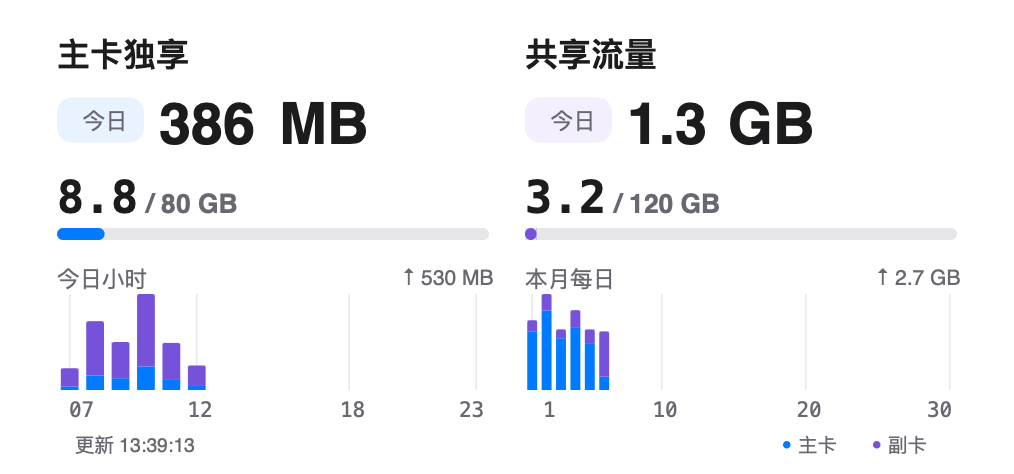
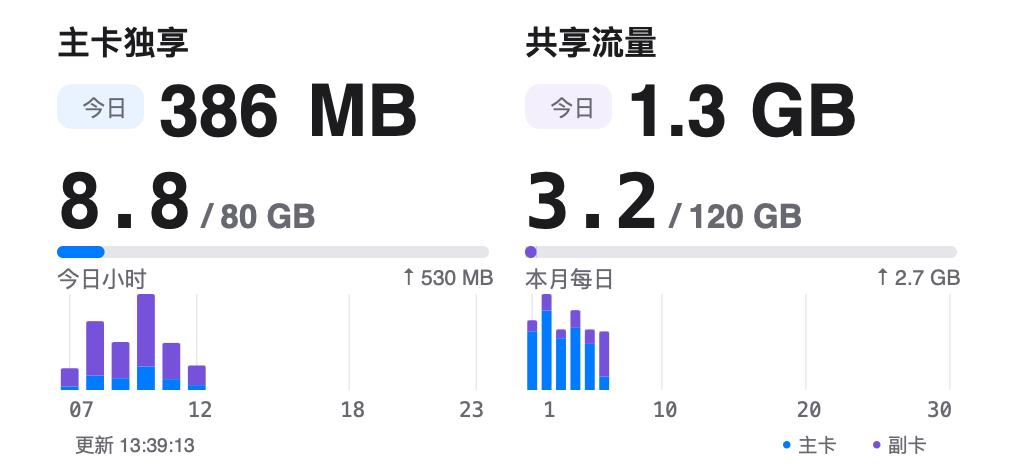
Separate Unicom layout typography and refine today capsules

diff --git a/scriptable/UnicomFlow.js b/scriptable/UnicomFlow.js
@@ -40,12 +40,14 @@ const UF = {
   folder: 'UnicomFlow',
   usageFont: 'SF Mono Medium', totalFont: '系统 Medium', todayFont: '系统 Medium',
   usageFontSize: 25, totalFontSize: 11, todayFontSize: 12, titleFontSize: null,
-  sectionBackground: true, mediumLayout: '今日横条',
+  sectionBackground: true, mediumLayout: '今日横条', mediumTypography: null,
   bg: '1C1C1E', text: 'F5F5F7', muted: 'A4A4AA', track: '454548', panelBg: '28282C', todayBg: '37373D',
   blue: '0A94FF', purple: '8A73FF', warning: 'FFD166', gridMajor: '38383C', gridMinor: '27272B',
 };
 const UF_DEFAULTS = { ...UF };
 const UF_MEDIUM_LAYOUTS = ['今日横条', '今日在上', '今日右上角'];
+const UF_MEDIUM_FONT_PREFIXES = { '今日横条': 'mediumBar', '今日在上': 'mediumTop', '今日右上角': 'mediumCorner' };
+const UF_TYPOGRAPHY_KEYS = ['usageFont', 'totalFont', 'todayFont', 'usageFontSize', 'totalFontSize', 'todayFontSize', 'titleFontSize'];
 
 function normalizedMediumLayout(value) {
   if (value === '今日集中方块') return '今日在上';
@@ -67,16 +69,43 @@ function normalizedNumberFont(value, fallback = 'SF Mono Regular') {
   return value === 'Menlo' ? 'Menlo Regular' : fallback;
 }
 
-function normalizedFontSize(value, kind) {
+function normalizedFontSize(value, kind, medium = false, fallback = UF_DEFAULTS[kind + 'FontSize']) {
   const n = Number(value);
-  const [min, max] = kind === 'usage' ? [12, 28] : [6, 14];
+  const [min, max] = kind === 'usage' ? [12, 28] : kind === 'today' && medium ? [6, 28] : [6, 14];
   return String(value == null ? '' : value).trim() && Number.isFinite(n) && n >= min && n <= max
-    ? n : UF_DEFAULTS[kind + 'FontSize'];
+    ? n : fallback;
 }
 
 function normalizedTitleSize(value) {
   const n = Number(value);
   return String(value == null ? '' : value).trim() && Number.isFinite(n) && n >= 8 && n <= 12 ? n : null;
+}
+
+function typographyKey(layout, key) {
+  return layout ? UF_MEDIUM_FONT_PREFIXES[layout] + key[0].toUpperCase() + key.slice(1) : key;
+}
+
+function mediumTypographyDefaults(settings, layout) {
+  const values = {};
+  for (const kind of ['usage', 'total', 'today']) {
+    values[kind + 'Font'] = normalizedNumberFont(settings[kind + 'Font'], UF_DEFAULTS[kind + 'Font']);
+    values[kind + 'FontSize'] = normalizedFontSize(settings[kind + 'FontSize'], kind);
+  }
+  // 迁移一次旧版今日视觉大小；保存的是实际字号，绘制时不再使用布局倍数。
+  values.todayFontSize = Math.max(6, Math.min(28,
+    Math.round(values.todayFontSize * (layout === '今日在上' ? 2 : layout === '今日右上角' ? 0.8 : 1) * 100) / 100));
+  values.titleFontSize = normalizedTitleSize(settings.titleFontSize);
+  return values;
+}
+
+function mediumTypography(settings, layout) {
+  const defaults = mediumTypographyDefaults(UF_DEFAULTS, layout), values = {};
+  for (const kind of ['usage', 'total', 'today']) {
+    values[kind + 'Font'] = normalizedNumberFont(settings[typographyKey(layout, kind + 'Font')], defaults[kind + 'Font']);
+    values[kind + 'FontSize'] = normalizedFontSize(settings[typographyKey(layout, kind + 'FontSize')], kind, true, defaults[kind + 'FontSize']);
+  }
+  values.titleFontSize = normalizedTitleSize(settings[typographyKey(layout, 'titleFontSize')]);
+  return values;
 }
 
 const UF_THEMES = {
@@ -1242,20 +1271,20 @@ function combinedTint(accent, strength = 0.09) {
   }).join('');
 }
 
-function combinedTodayText(value, width, scale = 1, increment = false, maxSize = Infinity) {
+function combinedTodayText(value, width, increment = false, maxSize = Infinity) {
   const formatted = formatMB(value, 'daily'), match = formatted.match(/^(.*?)(MB|GB)$/);
   const runs = match ? [match[1], match[2]] : [formatted];
   if (increment && value > 0 && Number.isFinite(value) && !formatted.startsWith('<')) runs[0] = '+' + runs[0];
   // 数字、单位独立绘制并预留真实字宽，避免真机换行后裁掉单位。
   const units = runs.map((run, index) => numberWidth(run, 1, 'today') * (index ? 1.2 : 1.05));
-  const size = Math.min(UF.todayFontSize * scale, maxSize, (width - 2 * runs.length - 2 * (runs.length - 1)) / Math.max(1, units.reduce((a, b) => a + b, 0)));
+  const size = Math.min(UF.todayFontSize, maxSize, (width - 2 * runs.length - 2 * (runs.length - 1)) / Math.max(1, units.reduce((a, b) => a + b, 0)));
   const widths = units.map(unit => unit * size + 2);
   return { runs, size, widths, width: widths.reduce((a, b) => a + b, 0) + 2 * (runs.length - 1) };
 }
 
 function drawCombinedToday(ctx, value, x, y, width, height, label = '', options = {}) {
   const labelWidth = label ? 14 : 0, gap = label ? 3 : 0;
-  const spec = combinedTodayText(value, width - labelWidth - gap, options.scale || 1, options.increment, height / 1.2);
+  const spec = combinedTodayText(value, width - labelWidth - gap, options.increment, height / 1.2);
   let start = options.left ? x : x + (width - spec.width - labelWidth - gap) / 2;
   if (label) {
     text(ctx, label, start, y + (height - 8.4) / 2, labelWidth, 8.4, 7, UF.muted);
@@ -1271,13 +1300,13 @@ function drawCombinedMonth(ctx, metric, x, y, width, options = {}) {
   const used = metric ? metric.used / 1024 : null;
   const primary = used == null ? '—' : used > 0 && used < 0.1 ? '<0.1' : used.toFixed(1);
   const quota = metric ? metric.total == null ? ' GB / 不限量' : ` / ${formatGB(metric.total, true)} GB` : '';
-  const quotaSize = Math.min(UF.totalFontSize * (options.totalScale || 1), width / Math.max(1, numberWidth(quota, 1, 'total')));
-  const primarySize = Math.min(UF.usageFontSize * (options.scale || 1), (width - Math.max(options.reserve || 0, numberWidth(quota, quotaSize, 'total') + 2))
+  const quotaSize = Math.min(UF.totalFontSize, width / Math.max(1, numberWidth(quota, 1, 'total')));
+  const primarySize = Math.min(UF.usageFontSize, options.maxSize || Infinity, (width - Math.max(options.reserve || 0, numberWidth(quota, quotaSize, 'total') + 2))
     / Math.max(1, numberWidth(primary, 1, 'usage')));
   const valueWidth = numberWidth(primary, primarySize, 'usage');
-  text(ctx, primary, x, y, valueWidth + 2, 34, primarySize, UF.text, 'number');
+  text(ctx, primary, x, y, valueWidth + 2, Math.max(18, primarySize * 1.2), primarySize, UF.text, 'number');
   if (quota) text(ctx, quota, x + valueWidth + 2, y + primarySize - quotaSize,
-    width - valueWidth - 2, 18, quotaSize, UF.muted, 'total');
+    width - valueWidth - 2, quotaSize * 1.2, quotaSize, UF.muted, 'total');
   return { rightX: x + valueWidth + 2, rightWidth: width - valueWidth - 2 };
 }
 
@@ -1307,17 +1336,21 @@ function drawCombinedDetail(ctx, metric, x, y, width) {
 
 function drawCombinedMetric(ctx, metric, label, daily, x, width, accent) {
   const title = ['通用', '定向'].includes(label) ? '数据流量·' + label : label;
-  text(ctx, title, x, 11, width, 14, Math.min(UF.titleFontSize || 11, width / title.length), UF.text, false, false, true);
+  text(ctx, title, x, UF.mediumLayout === '今日在上' ? 7 : 11, width, 14, Math.min(UF.titleFontSize || 11, width / title.length), UF.text, false, false, true);
   if (UF.mediumLayout === '今日在上') {
-    if (UF.sectionBackground) roundedRect(ctx, x, 32.5, 29, 15, 5, combinedTint(accent));
-    text(ctx, '今日', x, 35.5, 29, 9, 7.5, UF.muted, false, true);
-    drawCombinedToday(ctx, daily, x + 34, 27, width - 34, 26, '', { scale: 1.6, left: true });
-    drawCombinedMonth(ctx, metric, x, 56, width, { scale: 0.6, totalScale: 0.8 });
-    drawCombinedProgress(ctx, metric, x, 76, width);
-    drawCombinedDetail(ctx, metric, x, 80, width);
+    if (UF.sectionBackground) roundedRect(ctx, x, 28, 29, 15, 5, combinedTint(accent));
+    text(ctx, '今日', x, 31, 29, 9, 7.5, UF.muted, false, true);
+    drawCombinedToday(ctx, daily, x + 34, 21, width - 34, 29, '', { left: true });
+    drawCombinedMonth(ctx, metric, x, 51, width, { maxSize: 25 });
+    drawCombinedProgress(ctx, metric, x, 82, width);
+    drawCombinedDetail(ctx, metric, x, 86, width);
   } else if (UF.mediumLayout === '今日右上角') {
     const month = drawCombinedMonth(ctx, metric, x, 38, width, { reserve: 62 });
-    drawCombinedToday(ctx, daily, month.rightX, 26, month.rightWidth, 14, '', { scale: 0.8, left: true, increment: true, color: accent });
+    const todayHeight = Math.max(14, Math.min(20, UF.todayFontSize * 1.2));
+    const today = combinedTodayText(daily, month.rightWidth - 8, true, todayHeight / 1.2);
+    const capsuleWidth = Math.min(month.rightWidth, today.width + 8);
+    if (UF.sectionBackground) roundedRect(ctx, month.rightX, 28, capsuleWidth, todayHeight + 4, (todayHeight + 4) / 2, combinedTint(accent));
+    drawCombinedToday(ctx, daily, month.rightX + 4, 30, capsuleWidth - 8, todayHeight, '', { left: true, increment: true });
     drawCombinedProgress(ctx, metric, x, 76, width);
     drawCombinedDetail(ctx, metric, x, 80, width);
   } else {
@@ -1368,6 +1401,15 @@ function drawCompactChart(ctx, slots, title, x, y, width, hourly = false) {
 }
 
 function renderImage(result, medium, width, height, mode = 'month') {
+  const typography = medium && widgetMode(mode) === 'month' && UF.mediumTypography && UF.mediumTypography[UF.mediumLayout];
+  if (!typography) return drawWidgetImage(result, medium, width, height, mode);
+  const previous = Object.fromEntries(UF_TYPOGRAPHY_KEYS.map(key => [key, UF[key]]));
+  Object.assign(UF, typography);
+  try { return drawWidgetImage(result, medium, width, height, mode); }
+  finally { Object.assign(UF, previous); }
+}
+
+function drawWidgetImage(result, medium, width, height, mode = 'month') {
   // 统一为 158 点设计高度，再随组件尺寸缩放，避免小屏沿用固定坐标而挤入圆角。
   width = Math.round(width * 158 / height);
   height = 158;
@@ -1392,7 +1434,7 @@ function renderImage(result, medium, width, height, mode = 'month') {
     drawCombinedMetric(ctx, metrics.left, metrics.leftLabel, daily[0], leftX, col, UF.blue);
     drawCombinedMetric(ctx, metrics.right, metrics.rightLabel, daily[1], rightX, col, UF.purple);
     // 下半双图的坐标与底色开关无关。
-    const chartY = 98;
+    const chartY = UF.mediumLayout === '今日在上' && chartLift === 0 ? 106 : 98;
     drawCompactChart(ctx, widgetHourSlots(result.history, now), '今日小时', leftX, chartY, col, true);
     const month = monthlyReport(result.history, now);
     const days = month.days.map((d, index) => ({ ...d, samples: d.intervals,
@@ -1586,6 +1628,18 @@ function createWidgetClass(DmYY) {
         if (this.settings.todayFont === '系统 Medium' && String(this.settings.todayFontSize) === '9.5') this.settings.todayFontSize = '12';
         this.settings.todayTypographyDefaultsApplied = true; changed = true;
       }
+      if (!this.settings.mediumTypographyInitialized) {
+        for (const layout of UF_MEDIUM_LAYOUTS) {
+          const defaults = mediumTypographyDefaults(this.settings, layout);
+          for (const key of UF_TYPOGRAPHY_KEYS) {
+            const savedKey = typographyKey(layout, key);
+            if (!Object.prototype.hasOwnProperty.call(this.settings, savedKey)) {
+              this.settings[savedKey] = defaults[key] == null ? '' : String(defaults[key]);
+            }
+          }
+        }
+        this.settings.mediumTypographyInitialized = true; changed = true;
+      }
       if (changed) this.saveSettings(false);
       this.name = '联通流量';
       this.en = 'UnicomFlow';
@@ -1595,6 +1649,7 @@ function createWidgetClass(DmYY) {
       applyTheme(this.settings);
       UF.sectionBackground = ![false, 'false'].includes(this.settings.sectionBackground);
       UF.mediumLayout = normalizedMediumLayout(this.settings.mediumLayout);
+      UF.mediumTypography = Object.fromEntries(UF_MEDIUM_LAYOUTS.map(layout => [layout, mediumTypography(this.settings, layout)]));
       if (!this.settings.refreshAfterDate) this.settings.refreshAfterDate = String(UF_DEFAULTS.refreshMinutes);
       // 原间隔同时控制请求和组件，升级时保留用户已设置的查询频率。
       if (this.settings.dataRequestMinutes == null) this.settings.dataRequestMinutes = this.settings.refreshAfterDate;
@@ -1617,6 +1672,7 @@ function createWidgetClass(DmYY) {
       applyTheme(this.settings);
       UF.sectionBackground = ![false, 'false'].includes(this.settings.sectionBackground);
       UF.mediumLayout = normalizedMediumLayout(this.settings.mediumLayout);
+      UF.mediumTypography = Object.fromEntries(UF_MEDIUM_LAYOUTS.map(layout => [layout, mediumTypography(this.settings, layout)]));
       UF.titleFontSize = normalizedTitleSize(this.settings.titleFontSize);
       for (const kind of ['usage', 'total', 'today']) {
         UF[kind + 'Font'] = normalizedNumberFont(this.settings[kind + 'Font'], UF_DEFAULTS[kind + 'Font']);
@@ -1892,20 +1948,31 @@ function createWidgetClass(DmYY) {
       ] }]);
     }
 
-    async fontSettings() {
-      const groups = [['usage', '用量文字', 12, 28], ['total', '总量与百分比', 6, 14], ['today', '今日用量（综合中号）', 6, 14]];
+    async fontSettings(layout) {
+      if (layout === undefined) {
+        const scopes = [[null, '小号与独立今日'], ...UF_MEDIUM_LAYOUTS.map(name => [name, name])];
+        return this.renderAppView([{ title: '分别设置字体与字号', menu: scopes.map(([scope, title], index) => ({
+          name: 'fontScope' + index, title, type: 'input', desc: scope ? '仅影响此中号布局' : '小号及独立今日视图',
+          icon: { name: 'textformat', color: '#007AFF' }, onClick: () => this.fontSettings(scope),
+        })) }]);
+      }
+      const values = layout ? mediumTypography(this.settings, layout) : this.settings;
+      const scopeLabel = layout ? `仅“${layout}”` : '小号与独立今日';
+      const groups = [['usage', layout ? '本月用量' : '用量文字', 12, 28], ['total', layout ? '套餐总量' : '总量与百分比', 6, 14]];
+      if (layout) groups.push(['today', '今日用量', 6, 28]);
       const sections = groups.map(([kind, title, min, max]) => ({ title, menu: [
-        { name: kind + 'Font', val: kind + 'Font', title: '字体', type: 'select',
-          options: Object.keys(UF_NUMBER_FONTS), defaultValue: this.settings[kind + 'Font'], icon: { name: 'textformat', color: '#007AFF' } },
-        { name: kind + 'FontSize', val: kind + 'FontSize', title: '文字大小', type: 'input',
-          defaultValue: String(normalizedFontSize(this.settings[kind + 'FontSize'], kind)),
-          desc: `${kind === 'today' ? '综合中号三种布局的今日用量' : '小号、中号共用'}；输入 ${min}—${max}，支持小数；内容过宽时自动缩小`,
+        { name: typographyKey(layout, kind + 'Font'), val: typographyKey(layout, kind + 'Font'), title: '字体', type: 'select',
+          options: Object.keys(UF_NUMBER_FONTS), defaultValue: values[kind + 'Font'], icon: { name: 'textformat', color: '#007AFF' } },
+        { name: typographyKey(layout, kind + 'FontSize'), val: typographyKey(layout, kind + 'FontSize'), title: '文字大小', type: 'input',
+          defaultValue: String(normalizedFontSize(values[kind + 'FontSize'], kind, !!layout)),
+          desc: `${scopeLabel}；实际字号 ${min}—${max}，支持小数；空间不足时自动缩小`,
           icon: { name: 'textformat.size', color: '#007AFF' },
           onClick: async (_, __, view) => {
-            const key = kind + 'FontSize';
+            const key = typographyKey(layout, kind + 'FontSize');
             const a = new Alert(); a.title = title + '大小';
-            a.message = `${kind === 'today' ? '综合中号三种布局的今日用量。' : '小号、中号共用。'}请输入 ${min}—${max} 之间的字号，支持小数；内容过宽时自动缩小。`;
-            a.addTextField(String(UF_DEFAULTS[key]), String(normalizedFontSize(this.settings[key], kind)));
+            a.message = `${scopeLabel}。输入 ${min}—${max} 之间的实际字号，支持小数，不按布局倍数缩放；空间不足时自动缩小。`;
+            const fallback = layout ? mediumTypographyDefaults(UF_DEFAULTS, layout)[kind + 'FontSize'] : UF_DEFAULTS[kind + 'FontSize'];
+            a.addTextField(String(fallback), String(normalizedFontSize(this.settings[key], kind, !!layout, fallback)));
             a.addAction('保存'); a.addCancelAction('取消');
             if (await a.presentAlert() < 0) return;
             const value = a.textFieldValue(0).trim(), size = Number(value);
@@ -1914,18 +1981,19 @@ function createWidgetClass(DmYY) {
             if (view && this.insertTextByElementId) this.insertTextByElementId(view, key, String(size));
           } },
       ] }));
-      sections.push({ title: '标题文字', menu: [{ name: 'titleFontSize', val: 'titleFontSize', title: '文字大小', type: 'input',
-        defaultValue: normalizedTitleSize(this.settings.titleFontSize) == null ? '随尺寸' : String(normalizedTitleSize(this.settings.titleFontSize)),
-        desc: '小号、中号共用；8—12，支持小数；留空恢复小号10、中号11', icon: { name: 'textformat.size', color: '#007AFF' },
+      const titleKey = typographyKey(layout, 'titleFontSize');
+      sections.push({ title: '标题文字', menu: [{ name: titleKey, val: titleKey, title: '文字大小', type: 'input',
+        defaultValue: normalizedTitleSize(this.settings[titleKey]) == null ? '随尺寸' : String(normalizedTitleSize(this.settings[titleKey])),
+        desc: `${scopeLabel}；8—12，支持小数；留空恢复默认`, icon: { name: 'textformat.size', color: '#007AFF' },
         onClick: async (_, __, view) => {
-          const a = new Alert(); a.title = '标题文字大小'; a.message = '输入 8—12 之间的字号，小号、中号共用；留空恢复默认（小号10、中号11）。长标题自动缩小以适应宽度。';
-          a.addTextField('留空恢复默认', normalizedTitleSize(this.settings.titleFontSize) == null ? '' : String(normalizedTitleSize(this.settings.titleFontSize)));
+          const a = new Alert(); a.title = '标题文字大小'; a.message = `${scopeLabel}。输入 8—12 之间的字号；留空恢复默认（小号10、中号11）。长标题自动缩小以适应宽度。`;
+          a.addTextField('留空恢复默认', normalizedTitleSize(this.settings[titleKey]) == null ? '' : String(normalizedTitleSize(this.settings[titleKey])));
           a.addAction('保存'); a.addCancelAction('取消'); if (await a.presentAlert() < 0) return;
           const value = a.textFieldValue(0).trim(), size = normalizedTitleSize(value);
           if (value && size == null) return alertMessage('未保存', '请输入 8—12 之间的数字，或留空恢复默认');
-          if (value) this.settings.titleFontSize = String(size); else delete this.settings.titleFontSize;
+          if (value) this.settings[titleKey] = String(size); else delete this.settings[titleKey];
           this.saveSettings(false);
-          if (view && this.insertTextByElementId) this.insertTextByElementId(view, 'titleFontSize', value ? String(size) : '随尺寸');
+          if (view && this.insertTextByElementId) this.insertTextByElementId(view, titleKey, value ? String(size) : '随尺寸');
         } }] });
       return this.renderAppView(sections);
     }

diff --git a/docs/unicom-flow/README.md b/docs/unicom-flow/README.md
@@ -15,7 +15,7 @@
 
 ## 小组件参数：本月／今日
 
-长按桌面组件 → 编辑小组件 → Parameter：留空或填写 `month` 时，小号显示本月，中号显示本月＋今日综合视图；填写 `today` 切换为原有今日视图。小号、中号均支持，每张组件独立选择，同一份历史和字体设置可以同时用于两种视图。组件不再提供独立刷新按钮；大小号整卡点击均运行当前脚本并打开配置菜单，不主动查询联通。用量统计从菜单进入。
+长按桌面组件 → 编辑小组件 → Parameter：留空或填写 `month` 时，小号显示本月，中号显示本月＋今日综合视图；填写 `today` 切换为原有今日视图。小号、中号均支持，每张组件独立选择，两种视图复用同一份历史，字体按下述入口分别设置。组件不再提供独立刷新按钮；大小号整卡点击均运行当前脚本并打开配置菜单，不主动查询联通。用量统计从菜单进入。
 
 今日视图标题为“共享流量 · 今日”／“主卡独享 · 今日”（未识别共享属性时沿用通用／定向分类），大数字显示该组套餐的今日已记录增量；下方固定使用 GB，格式如 `6.8 / 120 GB`，斜杠两侧和数字与单位间各留固定 2 点间距，不加“本月”文字、不显示百分比。竖条仍表示月套餐已用比例。图表只保留主卡／副卡色点和名称，不重复用量数字；共享池下方不再额外显示逐卡月用量。今日中号继续显示一张完整宽度的小时图，两种模式的底部图例统一为“主卡／副卡”，不显示用量数字。
 
@@ -23,15 +23,15 @@
 
 - **今日横条**：参考第一张图，左右分别为主卡独享与共享流量，上方月已用与总量同排，横向月进度条下方显示对应今日用量；今日横条分别用很浅的蓝色、紫色底色区分套餐。
 - **今日在上**：左右分别为主卡独享与共享流量，标题下方用浅蓝／浅紫小胶囊标注“今日”，标签与今日数值垂直居中；下方月已用与总量同排，不重复“本月”标题，月已用为正文色、总量为灰色，再下方为横向进度条。
-- **今日右上角**：保留大号月已用，右上侧以主／副卡主题色小号显示今日增量，例如 `+100 MB`，不再重复“今日”；总量在增量下方，与月已用基线对齐。今日非零不足1 MB显示 `<1 MB`、真实零显示 `0 MB`、缺记录显示 `—`，这三种情况不添加加号。
+- **今日右上角**：保留大号月已用，右上侧以紧凑的浅蓝／浅紫胶囊显示今日增量，文字使用正文色（白色主题为黑色，深色主题为浅色），例如 `+100 MB`，不再重复“今日”；总量在增量下方，与月已用基线对齐。今日非零不足1 MB显示 `<1 MB`、真实零显示 `0 MB`、缺记录显示 `—`，这三种情况不添加加号。
 
-三种布局月已用均固定GB、保留一位小数（如 `8.8 / 80 GB`），非零不足0.1 GB显示 `<0.1`，零显示 `0.0`，无数据为 `—`；总量规则不变，不显示百分比。月已用、总量和今日共用三组字体设置。今日横条沿用菜单字号；今日在上将今日字号放大至设置的1.6倍、月已用及总量分别按0.6倍和0.8倍绘制；今日右上角的今日增量按0.8倍绘制，月已用与总量沿用菜单字号。各布局继续按可用宽高缩小实际绘制字号，不改保存值。今日数字与MB／GB分开绘制，字体、字重、字号一致，间距2点，并预留真实字宽避免换行；标签、数值各自垂直居中。共享池主卡用量确认为0且成员合计完整时，省略逐卡明细；主卡开始使用共享池时保留本月主／副卡用量说明，成员缺失或合计不符时显示“明细未确认”，保留灰条，不推算。共享月进度条以套餐总量为整条宽度，蓝色主卡、紫色副卡相邻堆叠，不夸大短段；今日不重复显示逐卡用量。
+三种布局月已用均固定GB、保留一位小数（如 `8.8 / 80 GB`），非零不足0.1 GB显示 `<0.1`，零显示 `0.0`，无数据为 `—`；总量规则不变，不显示百分比。三种中号布局各自保存本月用量、套餐总量、今日用量的字体与实际字号，标题字号也分别保存，不再使用布局倍数。未自定义时，本月用量默认SF Mono Medium 25号、总量系统 Medium 11号，与小号本月一致；今日横条、今日在上、今日右上角的今日默认字号分别为12、24、9.6号。初次升级复制原字体与字号，将旧今日视觉大小转换为各版实际字号；后续修改互不影响。仅在可用宽高不足时缩小实际绘制字号，不改保存值。今日数字与MB／GB分开绘制，字体、字重、字号一致，间距2点，并预留真实字宽避免换行；标签、数值各自垂直居中。共享池主卡用量确认为0且成员合计完整时，省略逐卡明细；主卡开始使用共享池时保留本月主／副卡用量说明，成员缺失或合计不符时显示“明细未确认”，保留灰条，不推算。共享月进度条以套餐总量为整条宽度，蓝色主卡、紫色副卡相邻堆叠，不夸大短段；今日不重复显示逐卡用量。
 
 综合中号的横向进度条统一为4个设计点高，灰色底轨与彩色填充两端均保留圆角；共享条只修整整体外角，主副卡交界保持直角，短段不放大。下方双图柱顶使用最多0.75个设计点的轻微圆角，随柱宽和整柱高度缩小；柱底及堆叠内部保持直角，保留原始柱宽、柱高和颜色比例。
 
-“组件配置 → 内容分区底色”开关默认开启，控制今日横条与“今日在上”的标签胶囊底色；“今日右上角”保持纯文字，不增加底框。原“今日集中方块”和“今日侧边胶囊”选项已移除，已保存的选项分别迁移为“今日在上”和“今日右上角”。三种布局的图表始终无底色，不再使用四块大灰底板。浅底从当前主题与自定义主／副卡颜色混合，黑白主题分别适配；关闭只移除浅底，文字、进度条、图表、刻度、更新时间与图例的位置、字号及尺寸完全一致。切换布局只保存界面选项，不更改历史数据。
+“组件配置 → 内容分区底色”开关默认开启，控制今日横条、“今日在上”的标签胶囊及“今日右上角”的用量胶囊底色。右上角胶囊较原位置下移4个设计点，按内容宽度计算，左右各留4个设计点，文字与胶囊垂直居中；高度随其独立今日字号适配。原“今日集中方块”和“今日侧边胶囊”选项已移除，已保存的选项分别迁移为“今日在上”和“今日右上角”。三种布局的图表始终无底色，不再使用四块大灰底板。浅底从当前主题与自定义主／副卡颜色混合，黑白主题分别适配；关闭只移除浅底，文字、进度条、图表、刻度、更新时间与图例的位置、字号及尺寸完全一致。切换布局只保存界面选项，不更改历史数据。
 
-综合中号底部左侧为“今日小时”，右侧为“本月每日”，都统计全部套餐；蓝色主卡包含独享和共享，紫色副卡为其共享用量，未知归属使用提示色。两图固定于下半部，分别缩放并显示峰值。更新时间在左下角、图例在右下角；综合中号两者分别向中间内收10点并下移4点，保留圆角安全区，双图刻度与底部信息保留独立空间。双位小时／日期标签至少预留14点宽及11点高，避免真机截断。没有采样和未来位置留空，真实零值才画短标记。小时图没有记录时显示“暂无记录”，有采样且用量确认为零时显示“今日暂无用量”；微量仍绘制实际柱子。月图按实际月份保留28—31个逐日位置，只标1、10、20及月末，不添加今日黑点标记。
+综合中号底部左侧为“今日小时”，右侧为“本月每日”，都统计全部套餐；蓝色主卡包含独享和共享，紫色副卡为其共享用量，未知归属使用提示色。两图位于下半部，分别缩放并显示峰值。“今日在上”在主副卡共享明细或明细缺失提示出现时，为明细预留额外空间，将两图顶边下移8个设计点；底边、刻度及页脚不变。更新时间在左下角、图例在右下角；综合中号两者分别向中间内收10点并下移4点，保留圆角安全区，双图刻度与底部信息保留独立空间。双位小时／日期标签至少预留14点宽及11点高，避免真机截断。没有采样和未来位置留空，真实零值才画短标记。小时图没有记录时显示“暂无记录”，有采样且用量确认为零时显示“今日暂无用量”；微量仍绘制实际柱子。月图按实际月份保留28—31个逐日位置，只标1、10、20及月末，不添加今日黑点标记。
 
 综合中号的小时图从首个主副卡及未知归属合计严格超过10 MB的小时起显示，连续保留到23点，中间的零值、缺采样和未来位置不删除。最少保留12列：首个超过阈值的小时晚于12点时，将起点提前至12点，例如20点才起量仍显示12—23点。全天没有超过阈值的小时（包括恰好10 MB）、零用量或暂无记录时，保留完整00—23点。没有固定的00—06点判断，不修改采样小时归属。隐藏时段仍计入今日总量；仅改变综合中号显示，不修改历史、独立今日中号或统计页。
 
@@ -64,7 +64,11 @@
 
 独享流量优先：小号上方为主卡独享、下方为共享流量；中号左侧为主卡独享、右侧为共享流量。本月、今日两种模式顺序一致，通用／定向的回退顺序不变。
 
-“组件配置 → 字体与字号”分别设置**用量文字**、**总量与百分比**和**今日用量（综合中号）**，三组可以选择不同字体和字号；每组只有一个字体菜单，选项为系统 Regular、系统 Medium、SF Mono Regular、SF Mono Medium、Menlo Regular。Menlo 没有原生 Medium，不作伪造或替代；不可用时回退系统等宽 Regular。选择菜单沿用 DmYY 普通文字，不提供字体预览。小号、中号共用设置，默认用量 SF Mono Medium 25 号、总量系统 Medium 11 号；直接输入数字（支持小数），用量允许 12—28，总量允许 6—14，超宽文字自动缩小以适应卡片，不改变保存的字号。旧数字字体设置自动迁移到用量、总量两组字体；今日设置独立采用默认系统 Medium 12号；旧版系统 Medium 9.5号默认组合一次性迁移至12号，其他自定义字体与字号保留，不覆盖已保存的用量／总量设置，允许6—14号（支持小数），只影响综合中号三种布局的今日数字和单位，不改变小号或独立今日视图。三组文字过宽时只缩小实际绘制字号，不修改保存值。上一版完整默认组合会一次性切换到新默认，已自定义的组合保留，不清除历史。用量行略上移、总量行略下移，为 Medium 25 号留出间距。用量数字和总量从竖条右侧同一位置起排，MB／GB 单位与用量数字使用相同字体、字重、字号，以 2 点窄间距分隔，避免等宽字体普通空格过宽；超宽时数字和单位同步缩小。总量的数字与单位也采用固定 2 点窄间距，单位与百分比括号之间不加空格，例如 `120 GB(6%)`。主副卡说明使用系统常规字体，标题使用系统中等字重，小时／日期刻度保留等宽字体。“标题文字”另提供独立字号输入，大小号共用，允许 8—12（支持小数）；留空恢复小号10、中号11，长标题自动缩小以适应宽度。大数字表示已用，下方表示套餐总量和已用百分比，小号与独立今日中号继续使用数字左侧的竖进度条，从底部向上增长；本月综合中号使用上述横向分段进度条。主卡独享等普通套餐的竖条表示已用比例；共享池的整条高度代表套餐总量，底部蓝色段表示主卡已用、其上紫色段表示副卡已用，剩余灰色表示未用流量。例如共享总量 120 GB、主卡已用 1.2 GB、副卡已用 2.02 GB 时，两段合计只占整条约 2.68%。下方标明两张卡各自的共享用量，蓝色为主卡、紫色为副卡；主卡共享用量确认为 0 且逐卡合计完整时，小号与中号都省略这组图例，数据缺失时仍保留提示；成员缺失或合计不符时保留灰条并提示，不推算缺失用量。左右留白按 158 点设计高度收窄为 13 点，小号顶部为 12 点；共享条的彩色段同样使用圆头，短段按实际高度绘制椭圆圆角，不夸大用量；大小卡片底部均显示精确到秒的最后一次成功查询时间，小号、中号均不显示刷新图标、不设置单独的刷新点击区域，大小号整卡链接均运行当前脚本并打开配置页；用量统计从菜单进入，旧统计点击链接也转到配置页，保留圆角安全留白。缓存或未识别明细的提示仍保留在安全区域内。不同手机尺寸统一按设计高度缩放布局。整卡使用背景图填满组件，避免固定宽度内容图片产生边缘细线；小时标签、竖线、柱子共用每格中心点对齐。在“组件配置 → 组件主题”选择黑色或白色，默认黑色，不随系统自动变化。两种主题分别保存自定义颜色，切换后文字、刻度、背景和提示颜色一起变化；可在“颜色配置”中调整当前主题。原版本的颜色设置仅迁移到黑色主题，避免白色主题套用旧的黑底配置。不限量套餐不计算百分比；没有返回某一类明细时显示 `--`，不伪装成 0。
+“组件配置 → 字体与字号”先选择“小号与独立今日”“今日横条”“今日在上”或“今日右上角”。小号与独立今日保留原用量、总量及标题设置；三个综合中号入口各自提供本月用量、套餐总量、今日用量及标题设置，修改某一入口不影响其他入口。菜单显示实际字号，不按布局倍数缩放；本月用量和今日用量分别允许12—28与6—28，总量允许6—14，支持小数，仅在空间不足时缩小实际绘制字号，不修改保存值。初次升级复制旧字体和月字号，旧今日字号按原视觉大小转换后分别保存；随后独立保存，不再随旧的共用设置改变，历史数据保留。
+
+每组字体菜单仍为系统 Regular、系统 Medium、SF Mono Regular、SF Mono Medium、Menlo Regular。Menlo 没有原生 Medium，不作伪造或替代；不可用时回退系统等宽 Regular。选择菜单沿用 DmYY 普通文字，不提供字体预览。默认用量SF Mono Medium 25号、总量系统 Medium 11号；三个中号的今日默认字号分别为12、24、9.6号，字体默认系统 Medium。标题默认随尺寸：小号10号、中号11号。旧数字字体与默认组合的既有迁移规则保留，用户自定义设置不覆盖。
+
+小号与独立今日视图中，用量行略上移、总量行略下移，为 Medium 25 号留出间距。用量数字和总量从竖条右侧同一位置起排，MB／GB 单位与用量数字使用相同字体、字重、字号，以 2 点窄间距分隔，避免等宽字体普通空格过宽；超宽时数字和单位同步缩小。总量的数字与单位也采用固定 2 点窄间距，单位与百分比括号之间不加空格，例如 `120 GB(6%)`。主副卡说明使用系统常规字体，标题使用系统中等字重，小时／日期刻度保留等宽字体。“标题文字”在各字体入口分别保存字号，允许 8—12（支持小数）；留空恢复小号10、中号11，长标题自动缩小以适应宽度。大数字表示已用，下方表示套餐总量和已用百分比，小号与独立今日中号继续使用数字左侧的竖进度条，从底部向上增长；本月综合中号使用上述横向分段进度条。主卡独享等普通套餐的竖条表示已用比例；共享池的整条高度代表套餐总量，底部蓝色段表示主卡已用、其上紫色段表示副卡已用，剩余灰色表示未用流量。例如共享总量 120 GB、主卡已用 1.2 GB、副卡已用 2.02 GB 时，两段合计只占整条约 2.68%。下方标明两张卡各自的共享用量，蓝色为主卡、紫色为副卡；主卡共享用量确认为 0 且逐卡合计完整时，小号与中号都省略这组图例，数据缺失时仍保留提示；成员缺失或合计不符时保留灰条并提示，不推算缺失用量。左右留白按 158 点设计高度收窄为 13 点，小号顶部为 12 点；共享条的彩色段同样使用圆头，短段按实际高度绘制椭圆圆角，不夸大用量；大小卡片底部均显示精确到秒的最后一次成功查询时间，小号、中号均不显示刷新图标、不设置单独的刷新点击区域，大小号整卡链接均运行当前脚本并打开配置页；用量统计从菜单进入，旧统计点击链接也转到配置页，保留圆角安全留白。缓存或未识别明细的提示仍保留在安全区域内。不同手机尺寸统一按设计高度缩放布局。整卡使用背景图填满组件，避免固定宽度内容图片产生边缘细线；小时标签、竖线、柱子共用每格中心点对齐。在“组件配置 → 组件主题”选择黑色或白色，默认黑色，不随系统自动变化。两种主题分别保存自定义颜色，切换后文字、刻度、背景和提示颜色一起变化；可在“颜色配置”中调整当前主题。原版本的颜色设置仅迁移到黑色主题，避免白色主题套用旧的黑底配置。不限量套餐不计算百分比；没有返回某一类明细时显示 `--`，不伪装成 0。
 
 脚本调用联通的套餐明细接口 `queryOcsPackageFlowLeftContentRevisedInJune`。其明细中的 `total/use/remain` 默认以 MB 计，明确带单位的数值按单位换算；不从首页汇总值推算通用／定向数据。
 
